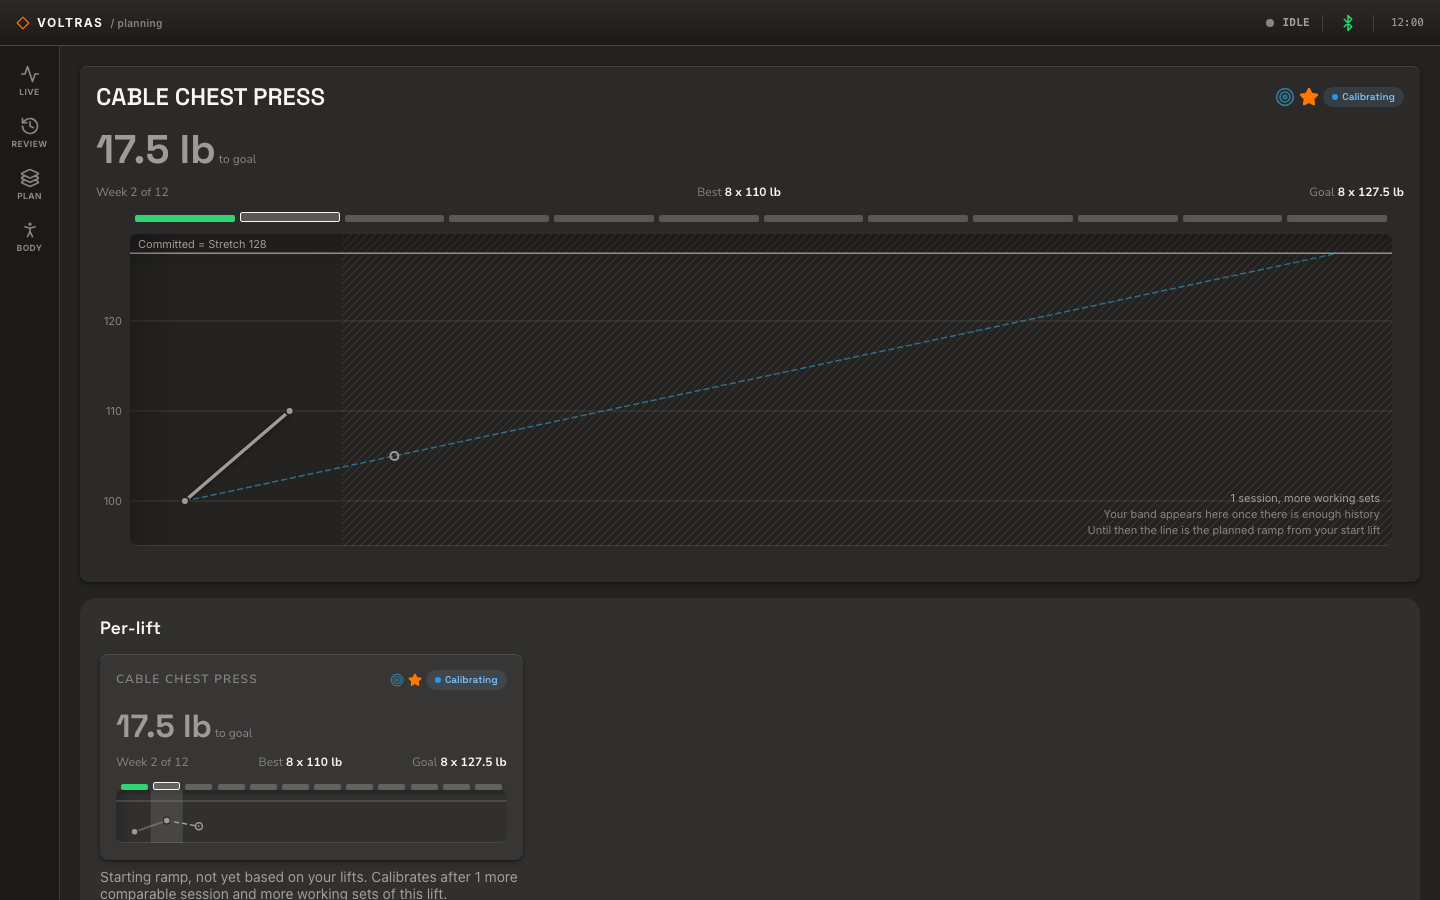
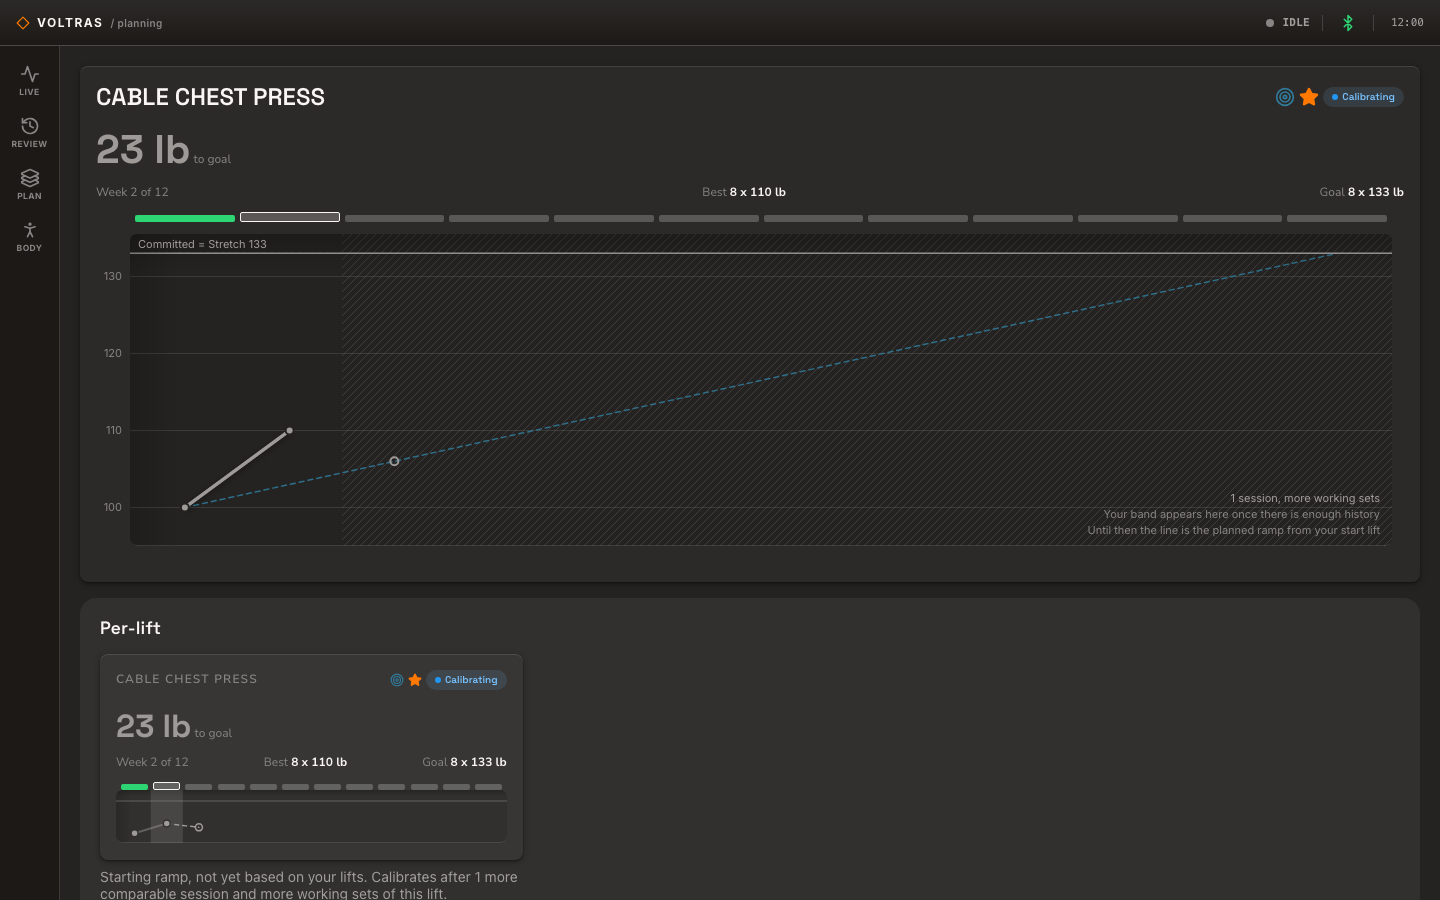
Re-shoot the goals captures for the class ramp (VW-482)

diff --git a/src/docs/capture-shots.ts b/src/docs/capture-shots.ts
@@ -246,10 +246,10 @@ const GOALS_VALUES: readonly string[] = [
   // The block-end target, fixed by the seeded prior-week reading (100 lb x 8)
   // and the coach's own proposal. Never asserted as a raw number elsewhere,
   // so a wrong target here would pass every other shot's check.
-  'Goal 8 x 127.5 lb',
+  'Goal 8 x 133 lb',
   // The driven PR set as the block's best, and the gap it leaves to the goal.
   'Best 8 x 110 lb',
-  '17.5 lb to goal',
+  '23 lb to goal',
   // The whole-body panel's own line for the same priority.
   'CABLE CHEST PRESS · specialize',
 ];
